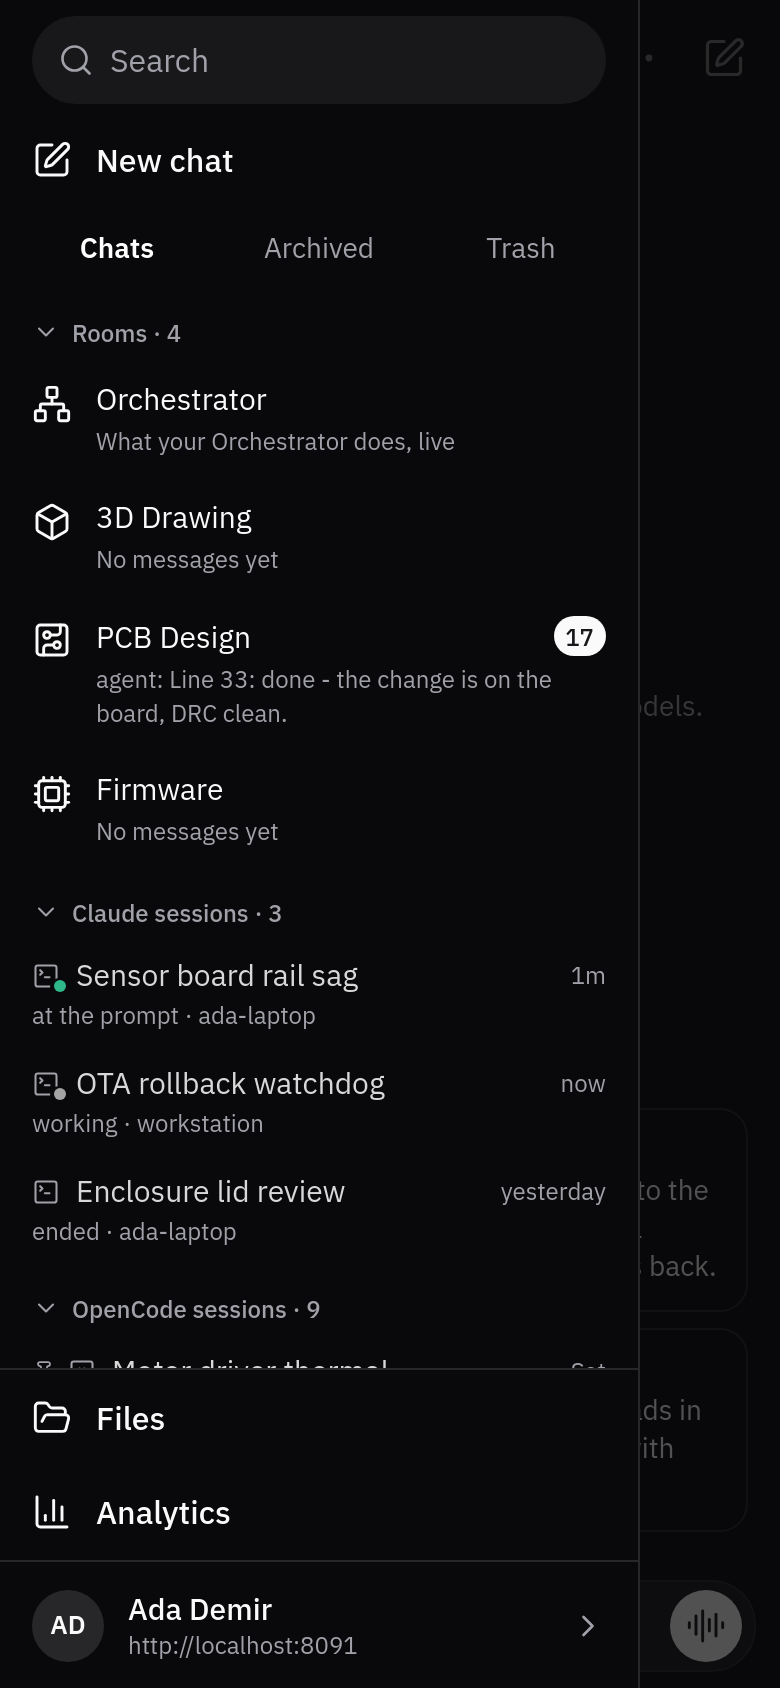
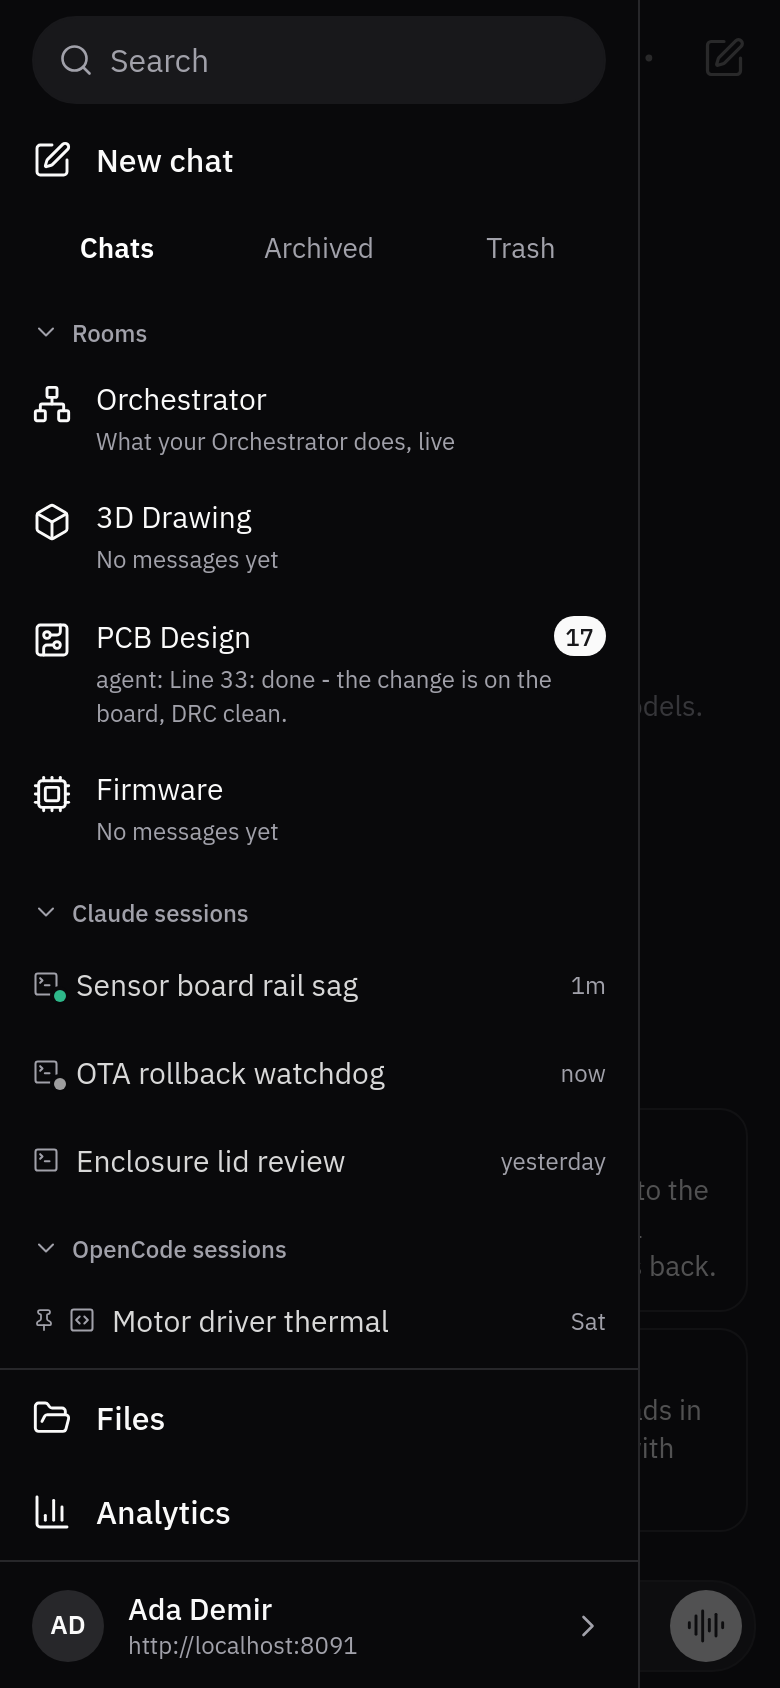
A drawer as plain as the web's: no count on a heading, one line a session; version 1.7.1
The web's Chat list leaves the number of sessions out on purpose - how many there are is the fold's
business, and a count beside every heading is the clutter a chat list does not have - and the phone
had put it back ("Rooms · 4", "Claude sessions · 3", "OpenCode sessions · 9"). The headings say only
their name now.

Under a session's name the phone drew its state and the computer it runs on, every row, whether or
not either was news. Now the row is one line - the mark, the dot, the name, the time - and a second
line appears only when the session needs the person: waiting for an answer, starting. The state and
the computer are still told, to a screen reader (SessionRowData.says), and the dot carries the state
to the eye. bridgeLine mirrors the web's (rooms/claude-sessions.ts); OpenCode's rows use wboLine, as
the web does. A room's own row keeps its last line - the web's does.

The e2e scripts' drawer checks say the same: no count, and no "· ada-laptop" under a row.

diff --git a/src/components/SessionGroup.tsx b/src/components/SessionGroup.tsx
@@ -1,12 +1,12 @@
 /**
  * A session group of the drawer (Claude sessions, OpenCode sessions), as the
  * web app's Chat list draws one (rooms/claude-sessions.ts, opencode-sessions.ts):
- * its header is a button - a chevron, the name and the count - that folds
- * and opens it;
+ * its header is a button - a chevron and the name, and no count (how many there
+ * are is the fold's business, not the list's) - that folds and opens it;
  * the choice is the person's, kept on the server (lib/side.ts). Its rows are
  * the conversations' own (DrawerRow): a mark with the session's live dot,
- * its name (a pin before it when pinned) and when, and what it does with the
- * computer under it. A long press opens Open and
+ * its name (a pin before it when pinned) and when, one line, with what it needs
+ * from the person under it when it needs anything. A long press opens Open and
  * Pin / Unpin. Open, it shows the pinned, the newest five and the open one,
  * with "Show N more"; folded, only the pinned.
  */
@@ -27,8 +27,10 @@ import { Glyph } from './ui';
 export interface SessionRowData {
   id: string;
   name: string;
-  /** What it does now, with the computer. */
-  snip: string;
+  /** What the row says under its name, when there is news: waiting for you, starting. */
+  note: string | null;
+  /** What it says to a screen reader instead of that line: the state, and the computer it runs on. */
+  says: string;
   /** When it was last used, as the drawer writes times. */
   when: string;
   dot: Dot | null;
@@ -81,7 +83,7 @@ export function SessionGroup({
   return (
     <View testID={testID}>
       <GroupHead
-        label={`${label} · ${rows.length}`}
+        label={label}
         open={open}
         onPress={flip}
         hint={open ? t.foldList : t.unfoldList}
@@ -94,14 +96,14 @@ export function SessionGroup({
             key={r.id}
             title={r.name}
             when={r.when}
-            sub={r.snip}
+            sub={r.note ?? undefined}
             icon={icon}
             dot={r.dot}
             pinned={pinned}
             on={r.id === selected}
             onPress={() => onOpen(r.id)}
             onLongPress={() => setMenu(r)}
-            label={`${r.name}${pinned ? `, ${t.pinned}` : ''}, ${r.snip}`}
+            label={`${r.name}${pinned ? `, ${t.pinned}` : ''}, ${r.says}`}
             testID={`${prefix}-${r.id}`}
           />
         );

diff --git a/src/components/DrawerPanel.tsx b/src/components/DrawerPanel.tsx
@@ -39,9 +39,9 @@ import { filterChats, groupChats, groupOf, rowTime } from '../lib/groups';
 import { ROOM_ICON, ROOM_LABEL, roomSnippet, unread as unreadOf } from '../lib/rooms';
 import { shortTime } from '../lib/time';
 import { isOpen, isPinned, SIDE_EMPTY } from '../lib/side';
-import { isoOf, liveDot, shownSessions, stateWord } from '../lib/wbc';
+import { bridgeLine, isoOf, liveDot, shownSessions, stateWord } from '../lib/wbc';
 import type { WbcStrings } from '../lib/wbcStrings';
-import { shownWbo, wboDot, wboLine } from '../lib/wbo';
+import { shownWbo, wboDot, wboLine, wboWord } from '../lib/wbo';
 import type { WboStrings } from '../lib/wboStrings';
 import { colors, fonts, gutter, radius, space, touch, type } from '../theme/tokens';
 import { Avatar } from './Avatar';
@@ -223,7 +223,8 @@ export function DrawerPanel({
     return [...rows, ...more].map((x) => ({
       id: x.session_id,
       name: x.name,
-      snip: [stateWord(x, wbc.t), x.computer].filter(Boolean).join(' · '),
+      note: bridgeLine(x.bridge, wbc.t),
+      says: [stateWord(x, wbc.t), x.computer].filter(Boolean).join(' · '),
       when: x.last_ts ? shortTime(isoOf(x.last_ts)) : '',
       dot: liveDot(x.bridge),
       live: !!x.bridge?.connected,
@@ -234,7 +235,8 @@ export function DrawerPanel({
     return shownWbo(wbo.rows, q, openWbo, (id) => isPinned(side, 'opencode', id)).map((x) => ({
       id: x.session_id,
       name: x.name,
-      snip: [wboLine(x, wbo.t), x.computer].filter(Boolean).join(' · '),
+      note: wboLine(x, wbo.t),
+      says: [wboWord(x, wbo.t), x.computer].filter(Boolean).join(' · '),
       when: x.updated ? shortTime(new Date(x.updated).toISOString()) : '',
       dot: wboDot(x),
       live: !!x.bridge?.connected,
@@ -336,7 +338,7 @@ export function DrawerPanel({
             {!q.trim() && ((onRoom && rooms?.length) || (orchestrator && onOrchestrator)) ? (
               <View testID="drawer-rooms">
                 <GroupHead
-                  label={`Rooms · ${(onRoom ? (rooms?.length ?? 0) : 0) + (orchestrator && onOrchestrator ? 1 : 0)}`}
+                  label="Rooms"
                   open={roomsOpen}
                   onPress={() => fold('rooms', !roomsOpen)}
                   hint={roomsOpen ? 'Folds the rooms' : 'Opens the rooms'}

diff --git a/src/screens/__tests__/opencode-session.test.tsx b/src/screens/__tests__/opencode-session.test.tsx
@@ -417,7 +417,7 @@ async function show(d: WboDetail, t = en) {
 
   it('opens a live group with the newest five and "Show N more"', async () => {
     await render(draw());
-    expect(screen.getByText('OpenCode sessions · 7')).toBeTruthy();
+    expect(screen.getByText('OpenCode sessions')).toBeTruthy();
     expect(screen.getByText('Run 4')).toBeTruthy();
     expect(screen.queryByText('Run 5')).toBeNull();
     expect(screen.getByTestId('wbo-dot-ses_row00000')).toBeTruthy();
@@ -434,10 +434,13 @@ async function show(d: WboDetail, t = en) {
         },
       }),
     );
-    // Working is the dot's own news, and the row keeps the computer under it.
+    // A working one is the dot's own news: no line under it at all, and the
+    // computer is told to a screen reader instead.
+    expect(screen.getByLabelText(/^Rail sag, working · ada-laptop$/)).toBeTruthy();
     expect(screen.queryByText('working · ada-laptop')).toBeNull();
-    expect(screen.getByText('ada-laptop')).toBeTruthy(); // the busy one keeps the computer alone
-    expect(screen.getByText('waiting for your answer · ada-laptop')).toBeTruthy();
+    expect(screen.queryByText('ada-laptop')).toBeNull();
+    // The waiting one has something to say, and says only that.
+    expect(screen.getByText('waiting for your answer')).toBeTruthy();
   });
 
   it('folds by the header, keeping the pinned in sight, as the person chose', async () => {

diff --git a/src/components/__tests__/drawer-rooms.test.tsx b/src/components/__tests__/drawer-rooms.test.tsx
@@ -71,13 +71,14 @@ async function panel(over: Partial<React.ComponentProps<typeof DrawerPanel>> = {
 (canRender ? describe : describe.skip)('the rooms in the drawer', () => {
   it('leads the list with all three, above the conversations', async () => {
     await panel();
-    expect(screen.getByText('Rooms · 3')).toBeTruthy();
+    // No count beside the heading: how many rooms there are is the fold's business.
+    expect(screen.getByText('Rooms')).toBeTruthy();
     expect(screen.getByText('3D Drawing')).toBeTruthy();
     expect(screen.getByText('PCB Design')).toBeTruthy();
     expect(screen.getByText('Firmware')).toBeTruthy();
     // In the order they are drawn: the rooms' heading before the first conversation.
-    expect(screen.getAllByText(/^(Rooms · 3|Rail sag)$/).map((t) => t.props.children)).toEqual([
-      'Rooms · 3',
+    expect(screen.getAllByText(/^(Rooms|Rail sag)$/).map((t) => t.props.children)).toEqual([
+      'Rooms',
       'Rail sag',
     ]);
   });

diff --git a/src/screens/__tests__/claude-session.test.tsx b/src/screens/__tests__/claude-session.test.tsx
@@ -336,9 +336,13 @@ const scrollOf = (y: number) => ({
         onWbc={onWbc}
       />,
     );
-    expect(screen.getByText('Claude sessions · 2')).toBeTruthy();
-    expect(screen.getByText('at the prompt · ada-laptop')).toBeTruthy();
-    expect(screen.getByText('ended · ws')).toBeTruthy();
+    expect(screen.getByText('Claude sessions')).toBeTruthy();
+    // One plain line each: the state and the computer are the screen reader's,
+    // not a second line under every row.
+    expect(screen.getByLabelText(/^Rail sag, at the prompt · ada-laptop$/)).toBeTruthy();
+    expect(screen.getByLabelText(/^OTA, ended · ws$/)).toBeTruthy();
+    expect(screen.queryByText('at the prompt · ada-laptop')).toBeNull();
+    expect(screen.queryByText('ended · ws')).toBeNull();
     expect(screen.queryByText('Old one')).toBeNull();
     expect(screen.getByTestId('wbc-dot-s1')).toBeTruthy();
     expect(screen.queryByTestId('wbc-dot-s2')).toBeNull();

diff --git a/src/lib/wbc.ts b/src/lib/wbc.ts
@@ -35,6 +35,18 @@ export function bridgeWord(b: WbcBridge | null, t: WbcStrings): string {
   return t.atPrompt;
 }
 
+/** What a session's row says under its name, when it says anything at all: only
+ *  what needs the person - a session waiting for an answer, one starting. At
+ *  the prompt, or working, the dot on the mark already says it, and a line
+ *  under every row is the clutter a chat list does not have (the web's
+ *  bridgeLine, claude-sessions.ts). */
+export function bridgeLine(b: WbcBridge | null | undefined, t: WbcStrings): string | null {
+  if (!b?.connected) return null;
+  if (b.state === 'waiting') return t.waitingComputer;
+  if (b.state === 'starting') return t.starting;
+  return null;
+}
+
 /** The live dot (StateDot): green at the prompt, pulsing while Claude works, amber while it waits; none unconnected. */
 export function liveDot(b: WbcBridge | null | undefined): Dot | null {
   if (!b?.connected) return null;

diff --git a/scripts/shots-claude.js b/scripts/shots-claude.js
@@ -68,8 +68,8 @@ async function dragBar(page, dx) {
   await page.waitForSelector(tid('drawer-wbc'), { timeout: 10000 });
   await sleep(500);
   const d = await text(page);
-  console.log('drawer: group', d.includes('Claude sessions · 3'), '| at the prompt', d.includes('at the prompt · ada-laptop'),
-    '| working', d.includes('working · workstation'), '| ended', d.includes('ended · ada-laptop'));
+  console.log('drawer: group', d.includes('Claude sessions'), '| no count', !/Claude sessions · \d/.test(d),
+    '| one plain line each', !d.includes('at the prompt · ada-laptop') && !d.includes('working · workstation'));
   await page.screenshot({ path: `${OUT}/90-drawer-claude-sessions.png` });
 
   await page.click(tid('wbc-a1b2c3d4-rail'));

diff --git a/scripts/shots-opencode.js b/scripts/shots-opencode.js
@@ -82,9 +82,11 @@ async function dragBar(page, dx) {
   const d = await text(page);
   console.log(
     'drawer: group',
-    d.includes('OpenCode sessions · 9'),
+    d.includes('OpenCode sessions'),
+    '| no count',
+    !/OpenCode sessions · \d/.test(d),
     '| waiting',
-    d.includes('waiting for your answer · ada-laptop'),
+    d.includes('waiting for your answer') && !d.includes('waiting for your answer · ada-laptop'),
     '| show more',
     /Show \d+ more/.test(d),
     '| pinned old one',

diff --git a/README.md b/README.md
@@ -288,20 +288,23 @@ Then you sign in with the same e-mail address and password as on the web.
   conversation keeps the screen. The drawer's own swipe to the right is held
   off for it (`components/drawerGestures.ts`).
 - **Folds and pins** (from 1.6.1): the Claude and OpenCode groups fold and
-  open by their header (a chevron; folded, the count and a live dot), and a
+  open by their header (a chevron, and folded a live dot; no count - how many
+  there are is the fold's business, as on the web), and a
   long press on a session offers Open and Pin / Unpin. Pinned sessions come
   first and stay in sight while the group is folded; an open group shows the
   newest five and "Show N more". Both are the person's own on the server
   (`GET /api/me/side`, `PUT /api/me/side/pins`, `PUT /api/me/side/folds`),
   the same as the web's on every device; until a group was folded by hand
   it is open while a session in it is live or open. From 1.6.2 the Rooms
-  fold too ("Rooms · 4", open until folded; folded, a dot - amber while a
+  fold too ("Rooms", open until folded; folded, a dot - amber while a
   room's question waits, accent while a room has lines not read), kept with
   the others (`folds.rooms`); a server that does not keep it yet answers 422
   and the phone keeps it, sending it once the server does. Session rows are
   the conversations' own row: the title with the kind's small icon before it
-  (the live dot on it), what it does and the computer under it, the time at
-  the right.
+  (the live dot on it) and the time at the right, one plain line, with a
+  line under it only when there is news to tell - waiting for your answer,
+  starting - never for the state or the computer, which the dot and the
+  screen reader have (1.7.1).
 - **Settings** (from 1.5.7; the account at the foot of the drawer opens it):
   the accounts (switch, add, sign one out), Agent & LLM, how much of an
   answer the Chat shows (**Compact**, **Normal**, **Detailed**), the app's
